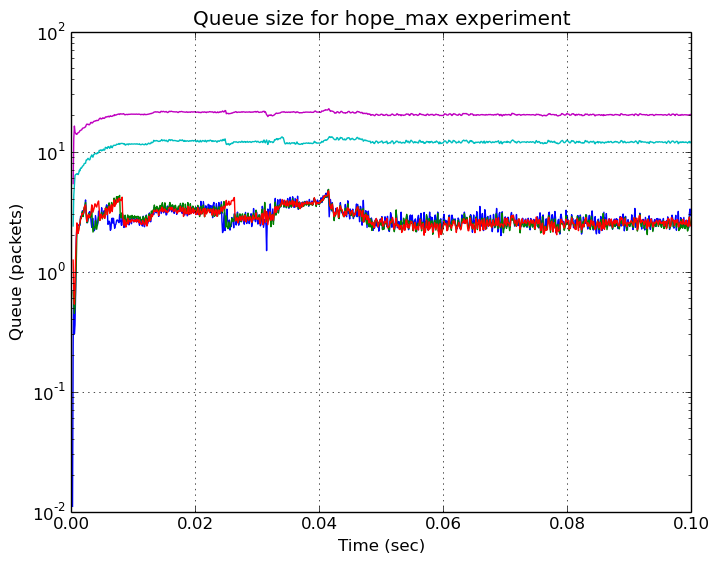
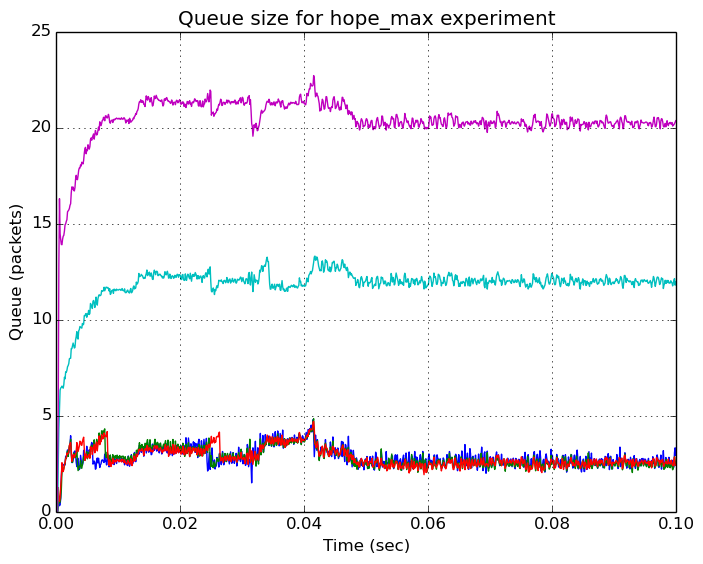
rerun hope_vs_timely simulation

diff --git a/lib/hope_vs_timely_sim.py b/lib/hope_vs_timely_sim.py
@@ -86,7 +86,7 @@ def main():
         dctcp_cdf = benchmark_tools.plot_rtt(congestion_alg, out_dir, log_plot=False)
 	dctcp_thp = benchmark_tools.plot_throughput(congestion_alg, num_clients, out_dir)
 	dctcp_fct = benchmark_tools.get_fct(congestion_alg, num_clients, out_dir)
-	benchmark_tools.plot_queue(congestion_alg, out_dir)
+	benchmark_tools.plot_queue(congestion_alg, out_dir, log_plot=False)
     if (args.timely):
 	congestion_alg = 'timely'
 	print("Timely Simulation Running...")
@@ -94,7 +94,7 @@ def main():
         timely_cdf = benchmark_tools.plot_rtt(congestion_alg, out_dir, log_plot=False)
 	timely_thp = benchmark_tools.plot_throughput(congestion_alg, num_clients, out_dir)
 	timely_fct = benchmark_tools.get_fct(congestion_alg, num_clients, out_dir)
-	benchmark_tools.plot_queue(congestion_alg, out_dir)
+	benchmark_tools.plot_queue(congestion_alg, out_dir, log_plot=False)
     if (args.hope_sum):
 	congestion_alg = 'hope_sum'
 	print("Hope-Sum Simulation Running...")
@@ -102,7 +102,7 @@ def main():
         hopeSum_cdf = benchmark_tools.plot_rtt(congestion_alg, out_dir, log_plot=False)
 	hopeSum_thp = benchmark_tools.plot_throughput(congestion_alg, num_clients, out_dir)
 	hopeSum_fct = benchmark_tools.get_fct(congestion_alg, num_clients, out_dir)
-	benchmark_tools.plot_queue(congestion_alg, out_dir)
+	benchmark_tools.plot_queue(congestion_alg, out_dir, log_plot=False)
     if (args.hope_max):
 	congestion_alg = 'hope_max'
 	print("Hope-Max Simulation Running...")
@@ -110,7 +110,7 @@ def main():
         hopeMax_cdf = benchmark_tools.plot_rtt(congestion_alg, out_dir, log_plot=False)
 	hopeMax_thp = benchmark_tools.plot_throughput(congestion_alg, num_clients, out_dir)
 	hopeMax_fct = benchmark_tools.get_fct(congestion_alg, num_clients, out_dir)
-	benchmark_tools.plot_queue(congestion_alg, out_dir)
+	benchmark_tools.plot_queue(congestion_alg, out_dir, log_plot=False)
     if (args.hope_maxq):
 	congestion_alg = 'hope_maxq'
 	print("Hope-Maxq Simulation Running...")
@@ -118,7 +118,7 @@ def main():
         hopeMaxq_cdf = benchmark_tools.plot_rtt(congestion_alg, out_dir, log_plot=False)
 	hopeMaxq_thp = benchmark_tools.plot_throughput(congestion_alg, num_clients, out_dir)
 	hopeMaxq_fct = benchmark_tools.get_fct(congestion_alg, num_clients, out_dir)
-	benchmark_tools.plot_queue(congestion_alg, out_dir)
+	benchmark_tools.plot_queue(congestion_alg, out_dir, log_plot=False)
     if (args.hope_maxqd):
 	congestion_alg = 'hope_maxqd'
 	print("Hope-Maxqd Simulation Running...")
@@ -126,7 +126,7 @@ def main():
         hopeMaxqd_cdf = benchmark_tools.plot_rtt(congestion_alg, out_dir, log_plot=False)
 	hopeMaxqd_thp = benchmark_tools.plot_throughput(congestion_alg, num_clients, out_dir)
 	hopeMaxqd_fct = benchmark_tools.get_fct(congestion_alg, num_clients, out_dir)
-	benchmark_tools.plot_queue(congestion_alg, out_dir)
+	benchmark_tools.plot_queue(congestion_alg, out_dir, log_plot=False)
     if (args.hope_maxe):
 	congestion_alg = 'hope_maxe'
 	print("Hope-Maxe Simulation Running...")
@@ -134,7 +134,7 @@ def main():
         hopeMaxe_cdf = benchmark_tools.plot_rtt(congestion_alg, out_dir, log_plot=False)
 	hopeMaxe_thp = benchmark_tools.plot_throughput(congestion_alg, num_clients, out_dir)
 	hopeMaxe_fct = benchmark_tools.get_fct(congestion_alg, num_clients, out_dir)
-	benchmark_tools.plot_queue(congestion_alg, out_dir)
+	benchmark_tools.plot_queue(congestion_alg, out_dir, log_plot=False)
     if (args.hope_maxed):
 	congestion_alg = 'hope_maxed'
 	print("Hope-Maxed Simulation Running...")
@@ -142,7 +142,7 @@ def main():
         hopeMaxed_cdf = benchmark_tools.plot_rtt(congestion_alg, out_dir, log_plot=False)
 	hopeMaxed_thp = benchmark_tools.plot_throughput(congestion_alg, num_clients, out_dir)
 	hopeMaxed_fct = benchmark_tools.get_fct(congestion_alg, num_clients, out_dir)
-	benchmark_tools.plot_queue(congestion_alg, out_dir)
+	benchmark_tools.plot_queue(congestion_alg, out_dir, log_plot=False)
     if (args.hope_sumq):
 	congestion_alg = 'hope_sumq'
 	print("Hope-Sumq Simulation Running...")
@@ -150,7 +150,7 @@ def main():
         hopeSumq_cdf = benchmark_tools.plot_rtt(congestion_alg, out_dir, log_plot=False)
 	hopeSumq_thp = benchmark_tools.plot_throughput(congestion_alg, num_clients, out_dir)
 	hopeSumq_fct = benchmark_tools.get_fct(congestion_alg, num_clients, out_dir)
-	benchmark_tools.plot_queue(congestion_alg, out_dir)
+	benchmark_tools.plot_queue(congestion_alg, out_dir, log_plot=False)
     if (args.hope_sumqd):
 	congestion_alg = 'hope_sumqd'
 	print("Hope-Sumqd Simulation Running...")
@@ -158,7 +158,7 @@ def main():
         hopeSumqd_cdf = benchmark_tools.plot_rtt(congestion_alg, out_dir, log_plot=False)
 	hopeSumqd_thp = benchmark_tools.plot_throughput(congestion_alg, num_clients, out_dir)
 	hopeSumqd_fct = benchmark_tools.get_fct(congestion_alg, num_clients, out_dir)
-	benchmark_tools.plot_queue(congestion_alg, out_dir)
+	benchmark_tools.plot_queue(congestion_alg, out_dir, log_plot=False)
     if (args.hope_sume):
 	congestion_alg = 'hope_sume'
 	print("Hope-Sume Simulation Running...")
@@ -166,7 +166,7 @@ def main():
         hopeSume_cdf = benchmark_tools.plot_rtt(congestion_alg, out_dir, log_plot=False)
 	hopeSume_thp = benchmark_tools.plot_throughput(congestion_alg, num_clients, out_dir)
 	hopeSume_fct = benchmark_tools.get_fct(congestion_alg, num_clients, out_dir)
-	benchmark_tools.plot_queue(congestion_alg, out_dir)
+	benchmark_tools.plot_queue(congestion_alg, out_dir, log_plot=False)
     if (args.hope_sumed):
 	congestion_alg = 'hope_sumed'
 	print("Hope-Sumed Simulation Running...")
@@ -174,7 +174,7 @@ def main():
         hopeSumed_cdf = benchmark_tools.plot_rtt(congestion_alg, out_dir, log_plot=False)
 	hopeSumed_thp = benchmark_tools.plot_throughput(congestion_alg, num_clients, out_dir)
 	hopeSumed_fct = benchmark_tools.get_fct(congestion_alg, num_clients, out_dir)
-	benchmark_tools.plot_queue(congestion_alg, out_dir)
+	benchmark_tools.plot_queue(congestion_alg, out_dir, log_plot=False)
     if (args.hope_squ):
 	congestion_alg = 'hope_squ'
 	print("Hope-Squ Simulation Running...")
@@ -182,7 +182,7 @@ def main():
         hopeSqu_cdf = benchmark_tools.plot_rtt(congestion_alg, out_dir, log_plot=False)
 	hopeSqu_thp = benchmark_tools.plot_throughput(congestion_alg, num_clients, out_dir)
 	hopeSqu_fct = benchmark_tools.get_fct(congestion_alg, num_clients, out_dir)
-	benchmark_tools.plot_queue(congestion_alg, out_dir)
+	benchmark_tools.plot_queue(congestion_alg, out_dir, log_plot=False)
     if (args.hope_squq):
 	congestion_alg = 'hope_squq'
 	print("Hope-Squq Simulation Running...")
@@ -190,7 +190,7 @@ def main():
         hopeSquq_cdf = benchmark_tools.plot_rtt(congestion_alg, out_dir, log_plot=False)
 	hopeSquq_thp = benchmark_tools.plot_throughput(congestion_alg, num_clients, out_dir)
 	hopeSquq_fct = benchmark_tools.get_fct(congestion_alg, num_clients, out_dir)
-	benchmark_tools.plot_queue(congestion_alg, out_dir)
+	benchmark_tools.plot_queue(congestion_alg, out_dir, log_plot=False)
 
     benchmark_tools.plot_allRTTcdf(out_dir, log_plot=False, \
 				dctcp=dctcp_cdf, timely=timely_cdf, \

diff --git a/dctcp-ns2/bin/benchmark_tools.py b/dctcp-ns2/bin/benchmark_tools.py
@@ -374,7 +374,7 @@ def plot_allTotalThp(out_dir, dctcp=None, vegas=None, timely=None, hopeSum=None,
     print "Saved plot: ", allThp_file
     plt.close()
 
-def plot_queue(algo_name, out_dir):
+def plot_queue(algo_name, out_dir, log_plot=True):
     fmat = r"(?P<time>[\d.]*) (?P<from_node>[\d]*) (?P<to_node>[\d]*) (?P<q_size_B>[\d.]*) (?P<q_size_p>[\d.]*) (?P<arr_p>[\d.]*) (?P<dep_p>[\d.]*) (?P<drop_p>[\d.]*) (?P<arr_B>[\d.]*) (?P<dep_B>[\d.]*) (?P<drop_B>[\d.]*)"
     """
     Parse the sampled queue size output file and plot the queue size over time
@@ -411,7 +411,8 @@ def plot_queue(algo_name, out_dir):
         queue_name = 'Queue Client_{}'.format(dst_nodes[i])
         plt.plot(times[i],q_sizes[i],linestyle='-', marker='', label=queue_name)
     #plt.plot(time,q_size,linestyle='-', marker='', label='Queue in packets')
-    plt.yscale('log')
+    if log_plot==True: 
+    	plt.yscale('log')
     plt.ylabel('Queue (packets)')
     plt.xlabel('Time (sec)')
     #plt.legend(loc='lower right')

diff --git a/dctcp-ns2/ns-2/ns-allinone-2.34/ns-2.34/tcp/tcp-vegas.cc b/dctcp-ns2/ns-2/ns-allinone-2.34/ns-2.34/tcp/tcp-vegas.cc
@@ -521,8 +521,8 @@ VegasTcpAgent::recv(Packet *pkt, Handler *)
 			//printf("*** rtt= %f | cong_sgnl= %f | prevRTT= %f | rtt_diff= %f | avgRTTDiff= %f | cwnd_= %f\n",rtt*1000000, cong_signal_*1000000, timely_prevRTT_*1000000, rtt_diff*1000000, timely_avgRTTDiff_*1000000, (double)cwnd_);
 
 			double normalized_gradient = timely_avgRTTDiff_ / v_baseRTT_;
-			//if (hope_collector_ != 0){
-			//	normalized_gradient = timely_avgRTTDiff_ / baseBufferSize;
+			//if (hope_type_ != 0){
+			//	normalized_gradient = timely_avgRTTDiff_ / (v_baseRTT_/((double)hop_cnt/2));
 			//}
 
 			double delta_factor = (currentTime - timely_lastUpdateTime) / v_baseRTT_;
